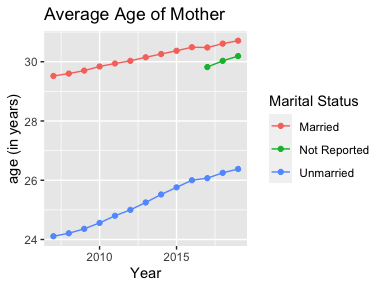
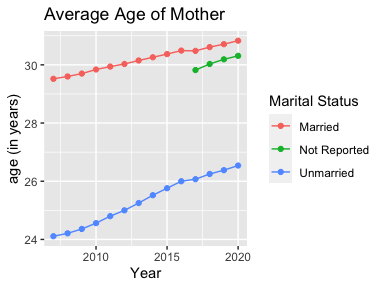
update readme, intro vignette, D66 -> 2020

diff --git a/README.md b/README.md
@@ -1,7 +1,7 @@
 wonderapi
 ================
 Joyce Robbins
-2021-10-28
+March 9, 2022
 
 <div id="TOC">
 
@@ -59,6 +59,15 @@ from multiple datasets</a>
 
 ``` r
 library(tidyverse)
+```
+
+    ## Warning: package 'tidyr' was built under R version 4.1.2
+
+    ## Warning: package 'readr' was built under R version 4.1.2
+
+    ## Warning: package 'dplyr' was built under R version 4.1.2
+
+``` r
 library(wonderapi)
 ```
 
@@ -77,7 +86,7 @@ write queries using human readable names rather than numeric codes.
 -   processes the results  
 -   returns a tidy data frame
 
-### Limitations of the CDC WONDER API
+## Limitations of the CDC WONDER API
 
 Note that queries for mortality and births statistics from the National
 Vital Statistics System cannot limit or group results by any location
@@ -98,14 +107,14 @@ mydata0 %>% head()
 ```
 
     ## # A tibble: 6 × 5
-    ##    Year Gender  Deaths Population `Crude Rate`
-    ##   <dbl> <chr>    <dbl>      <dbl>        <dbl>
-    ## 1  1999 Female 1215860  142237295         855.
-    ## 2  1999 Male   1175183  136802873         859 
-    ## 3  2000 Female 1225706  143368343         855.
-    ## 4  2000 Male   1177289  138053563         853.
-    ## 5  2001 Female 1232913  145077463         850.
-    ## 6  2001 Male   1183090  139891492         846.
+    ##   Year  Gender  Deaths Population `Crude Rate`
+    ##   <chr> <chr>    <dbl>      <dbl>        <dbl>
+    ## 1 1999  Female 1215860  142237295         855.
+    ## 2 1999  Male   1175183  136802873         859 
+    ## 3 2000  Female 1225706  143368343         855.
+    ## 4 2000  Male   1177289  138053563         853.
+    ## 5 2001  Female 1232913  145077463         850.
+    ## 6 2001  Male   1183090  139891492         846.
 
 `show_databases()` displays available databases by name and code:
 
@@ -118,7 +127,7 @@ wonderapi::show_databases()
     ##   <chr>                    <chr>
     ## 1 Natality for 1995 - 2002 D10  
     ## 2 Natality for 2003 - 2006 D27  
-    ## 3 Natality for 2007 - 2019 D66  
+    ## 3 Natality for 2007 - 2020 D66  
     ## 4 Detailed Mortality       D76  
     ## 5 Heat Wave Days           D104
 
@@ -202,7 +211,7 @@ default settings, perform a query request without specifying a
 querylist:
 
 ``` r
-natdata <- getData(TRUE, "Natality for 2007 - 2019")
+natdata <- getData(TRUE, "Natality for 2007 - 2020")
 natdata %>% head()
 ```
 
@@ -222,14 +231,14 @@ dmdata %>% head()
 ```
 
     ## # A tibble: 6 × 4
-    ##    Year  Deaths Population `Crude Rate`
-    ##   <dbl>   <dbl>      <dbl>        <dbl>
-    ## 1  1999 2391043  279040168         857.
-    ## 2  2000 2402995  281421906         854.
-    ## 3  2001 2416003  284968955         848.
-    ## 4  2002 2443030  287625193         849.
-    ## 5  2003 2447946  290107933         844.
-    ## 6  2004 2397269  292805298         819.
+    ##   Year   Deaths Population `Crude Rate`
+    ##   <chr>   <dbl>      <dbl>        <dbl>
+    ## 1 1999  2391043  279040168         857.
+    ## 2 2000  2402995  281421906         854.
+    ## 3 2001  2416003  284968955         848.
+    ## 4 2002  2443030  287625193         849.
+    ## 5 2003  2447946  290107933         844.
+    ## 6 2004  2397269  292805298         819.
 
 The default lists were prepared based on CDC examples, but we make no
 claim that they are error free. If you have any suggestions for
@@ -263,12 +272,12 @@ mydata %>% head()
     ## # A tibble: 6 × 4
     ##   Weekday    Deaths Population     `Crude Rate`  
     ##   <chr>       <dbl> <chr>          <chr>         
-    ## 1 Sunday    7575854 Not Applicable Not Applicable
-    ## 2 Monday    7638335 Not Applicable Not Applicable
-    ## 3 Tuesday   7586763 Not Applicable Not Applicable
-    ## 4 Wednesday 7585543 Not Applicable Not Applicable
-    ## 5 Thursday  7596742 Not Applicable Not Applicable
-    ## 6 Friday    7711294 Not Applicable Not Applicable
+    ## 1 Sunday    8049406 Not Applicable Not Applicable
+    ## 2 Monday    8120828 Not Applicable Not Applicable
+    ## 3 Tuesday   8066322 Not Applicable Not Applicable
+    ## 4 Wednesday 8074854 Not Applicable Not Applicable
+    ## 5 Thursday  8087969 Not Applicable Not Applicable
+    ## 6 Friday    8197715 Not Applicable Not Applicable
 
 As the set up is slightly different depending on the parameter type,
 more details on setting up the name-value pairs by parameter types are
@@ -302,7 +311,7 @@ Measures do not need values; it is sufficient to specify a name only:
 mylist <- list(list("Group Results By", "Marital Status"),
                list("And By", "Year"),
                list("Average Age of Mother", ""))
-mydata2 <- getData(TRUE, "Natality for 2007 - 2019", mylist)
+mydata2 <- getData(TRUE, "Natality for 2007 - 2020", mylist)
 ```
 
 ``` r
@@ -331,7 +340,7 @@ mylist <- list(list("Month", "2"))
 getData(TRUE, "D66", mylist)
 ```
 
-    ## # A tibble: 13 × 2
+    ## # A tibble: 14 × 2
     ##     Year Births
     ##    <dbl>  <dbl>
     ##  1  2007 326891
@@ -347,6 +356,7 @@ getData(TRUE, "D66", mylist)
     ## 11  2017 289054
     ## 12  2018 284250
     ## 13  2019 279963
+    ## 14  2020 282654
 
 **Note that values for Limiting Variables must be entered as codes; in
 this case “2” rather than “February.” We hope to add capability for
@@ -362,7 +372,7 @@ ggplot(mydata2, aes(x = Year, y = Births, color = `Marital Status`)) +
     geom_line() + ggtitle("Births by Marital Status")
 ```
 
-<img src="readme_files/figure-gfm/BirthsByMaritalStatus-1.png" style="display: block; margin: auto;" />
+<img src="Readme_files/figure-gfm/BirthsByMaritalStatus-1.png" style="display: block; margin: auto;" />
 
 ``` r
 ggplot(mydata2, aes(x = Year, y = `Average Age of Mother`,
@@ -371,7 +381,7 @@ ggplot(mydata2, aes(x = Year, y = `Average Age of Mother`,
     ggtitle("Average Age of Mother")
 ```
 
-<img src="readme_files/figure-gfm/AverageAgeofMother-1.png" style="display: block; margin: auto;" />
+<img src="Readme_files/figure-gfm/AverageAgeofMother-1.png" style="display: block; margin: auto;" />
 
 ``` r
 mydata2 <- mydata2 %>% 
@@ -383,7 +393,7 @@ ggplot(mydata2, aes(x = Year, y = Unmarried / Total)) + geom_line() +
     ylab("Percent of Total Births")
 ```
 
-<img src="readme_files/figure-gfm/BirthstoUnmarriedMothers-1.png" style="display: block; margin: auto;" />
+<img src="Readme_files/figure-gfm/BirthstoUnmarriedMothers-1.png" style="display: block; margin: auto;" />
 
 ### Combining results from multiple datasets
 
@@ -398,12 +408,12 @@ available, see the codebooks (**`>??codebook`**) and crosscheck with the
 ``` r
 births <- rbind(getData(TRUE, "Natality for 1995 - 2002"),
                 getData(TRUE, "Natality for 2003 - 2006"),
-                getData(TRUE, "Natality for 2007 - 2019"))
+                getData(TRUE, "Natality for 2007 - 2020"))
 ggplot(births, aes(Year, Births)) + geom_line() + 
-    ggtitle("U.S. Births by Year, 1995 - 2019")
+    ggtitle("U.S. Births by Year, 1995 - 2020")
 ```
 
-<img src="readme_files/figure-gfm/BirthsbyYear1995to2019-1.png" style="display: block; margin: auto;" />
+<img src="Readme_files/figure-gfm/BirthsbyYear1995to2020-1.png" style="display: block; margin: auto;" />
 
 ### Errors
 
@@ -426,14 +436,14 @@ mydata3 %>% head()
 ```
 
     ## # A tibble: 6 × 4
-    ##    Year  Deaths Population `Crude Rate`
-    ##   <dbl>   <dbl>      <dbl>        <dbl>
-    ## 1  1999 2391043  279040168         857.
-    ## 2  2000 2402995  281421906         854.
-    ## 3  2001 2416003  284968955         848.
-    ## 4  2002 2443030  287625193         849.
-    ## 5  2003 2447946  290107933         844.
-    ## 6  2004 2397269  292805298         819.
+    ##   Year   Deaths Population `Crude Rate`
+    ##   <chr>   <dbl>      <dbl>        <dbl>
+    ## 1 1999  2391043  279040168         857.
+    ## 2 2000  2402995  281421906         854.
+    ## 3 2001  2416003  284968955         848.
+    ## 4 2002  2443030  287625193         849.
+    ## 5 2003  2447946  290107933         844.
+    ## 6 2004  2397269  292805298         819.
 
 Errors due to the constraints of the CDC Wonder API are more difficult
 to catch since there are many quirky rules and it is currently beyond
@@ -443,7 +453,7 @@ appears to be a reasonable request, but results in an error:
 ``` r
 mylist <- list(list("And By", "Education"), 
                list("Birth Rate", ""))
-mydata4 <- getData(TRUE, "Natality for 2007 - 2019", mylist)
+mydata4 <- getData(TRUE, "Natality for 2007 - 2020", mylist)
 ```
 
     ## Error in wondr::make_query(querylist, dbcode): Internal Server Error (HTTP 500).
@@ -463,7 +473,7 @@ Rate” measure. If we try again with “Bridged Race” instead of
 ``` r
 mylist <- list(list("And By", "Mother's Bridged Race"), 
                list("Birth Rate", ""))
-mydata5 <- getData(TRUE, "Natality for 2007 - 2019", mylist)
+mydata5 <- getData(TRUE, "Natality for 2007 - 2020", mylist)
 ```
 
 ``` r
@@ -472,10 +482,10 @@ mydata5 %>% head()
 
     ## # A tibble: 6 × 5
     ##    Year `Mother's Bridged Race`           Births `Total Population` `Birth Rate`
-    ##   <dbl> <chr>                              <dbl>              <dbl>        <dbl>
-    ## 1  2007 American Indian or Alaska Native   49443            3829898         12.9
-    ## 2  2007 Asian or Pacific Islander         254488           15559373         16.4
-    ## 3  2007 Black or African American         675676           40451108         16.7
-    ## 4  2007 White                            3336626          241390828         13.8
-    ## 5  2008 American Indian or Alaska Native   49537            3983929         12.4
-    ## 6  2008 Asian or Pacific Islander         253185           16094699         15.7
+    ##   <dbl> <chr>                              <dbl> <chr>              <chr>       
+    ## 1  2007 American Indian or Alaska Native   49443 3,829,898          12.91       
+    ## 2  2007 Asian or Pacific Islander         254488 15,559,373         16.36       
+    ## 3  2007 Black or African American         675676 40,451,108         16.70       
+    ## 4  2007 White                            3336626 241,390,828        13.82       
+    ## 5  2008 American Indian or Alaska Native   49537 3,983,929          12.43       
+    ## 6  2008 Asian or Pacific Islander         253185 16,094,699         15.73
